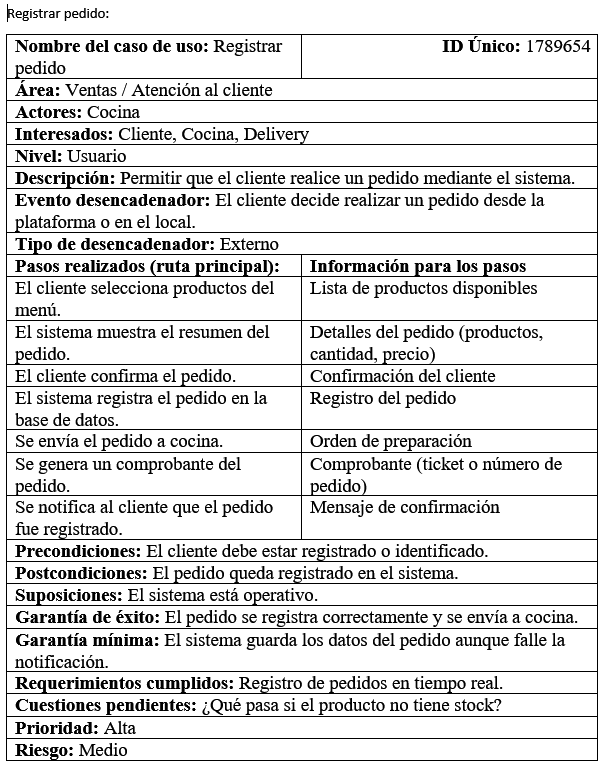
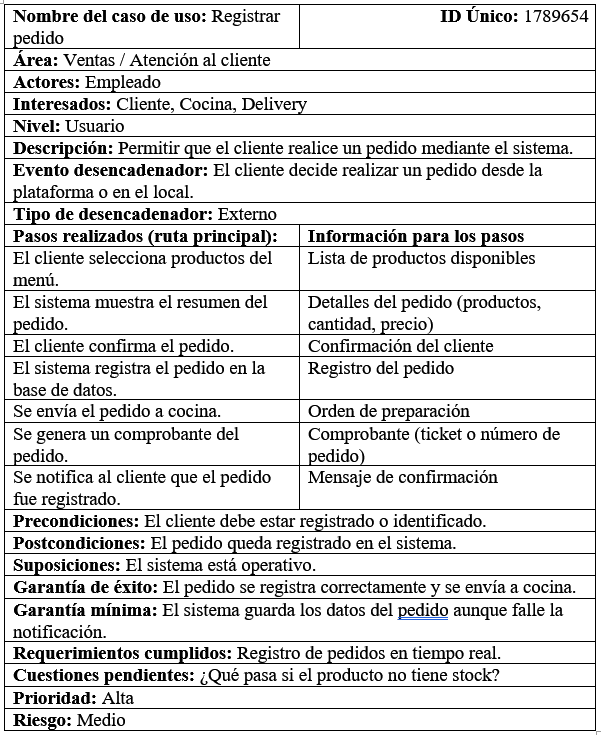
Add files via upload

diff --git a/analisis.html b/analisis.html
@@ -646,6 +646,14 @@
                     <img src="caso13.png" alt="Diagrama de Flujo de Datos"
                         style=" width:100%; border-radius:10px;border:1px solid rgba(255,255,255,0.1);box-shadow: 0 10px 30px rgba(0,0,0,0.5);" />
                 </div>
+                <div style="margin-top:20px; max-width:800px; margin-left:auto; margin-right:auto;">
+                    <img src="caso14.png" alt="Diagrama de Flujo de Datos"
+                        style=" width:100%; border-radius:10px;border:1px solid rgba(255,255,255,0.1);box-shadow: 0 10px 30px rgba(0,0,0,0.5);" />
+                </div>
+                <div style="margin-top:20px; max-width:800px; margin-left:auto; margin-right:auto;">
+                    <img src="caso15.png" alt="Diagrama de Flujo de Datos"
+                        style=" width:100%; border-radius:10px;border:1px solid rgba(255,255,255,0.1);box-shadow: 0 10px 30px rgba(0,0,0,0.5);" />
+                </div>
             </div>
     </section>
 
